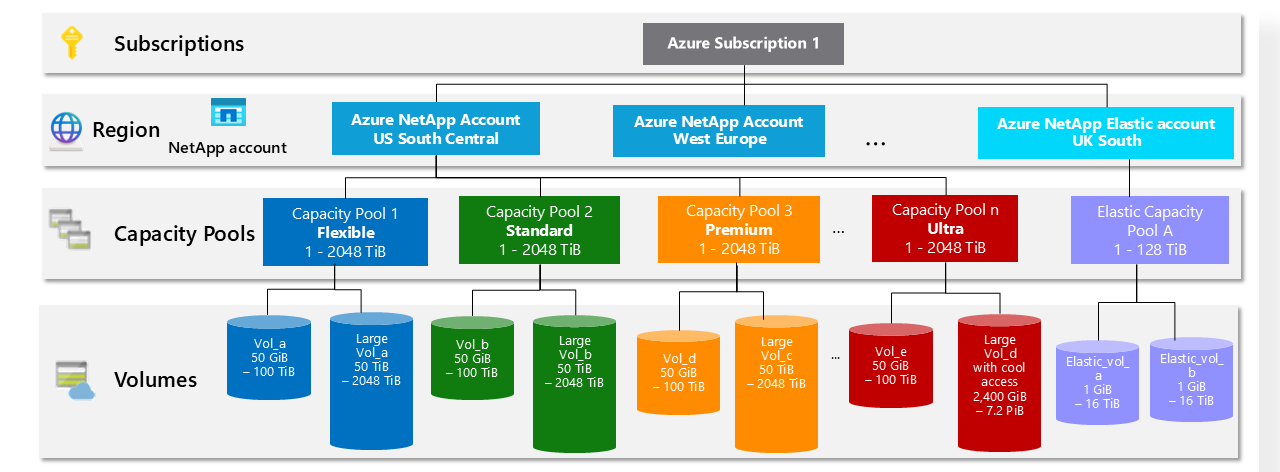
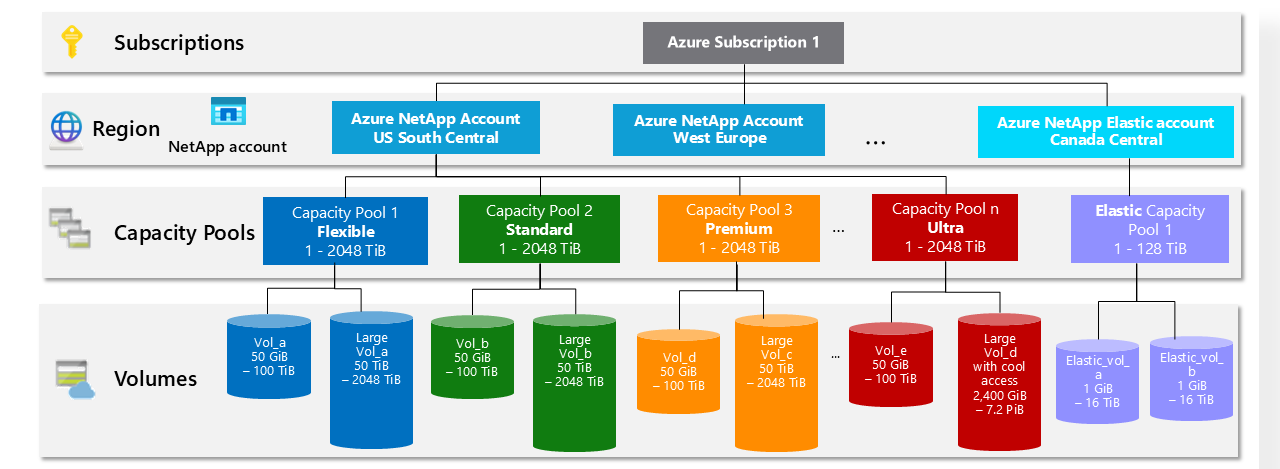
correct regions in diagram; formatting

diff --git a/articles/azure-netapp-files/azure-netapp-files-understand-storage-hierarchy.md b/articles/azure-netapp-files/azure-netapp-files-understand-storage-hierarchy.md
@@ -5,7 +5,7 @@ services: azure-netapp-files
 author: b-hchen
 ms.service: azure-netapp-files
 ms.topic: overview
-ms.date: 1/29/2026
+ms.date: 02/04/2026
 ms.author: anfdocs
 # Customer intent: "As a cloud architect, I want to understand the storage hierarchy of Azure NetApp Files, so that I can effectively set up and manage capacity pools and volumes to meet our storage needs."
 ---
@@ -36,7 +36,7 @@ Understanding how capacity pools work helps you select the right capacity pool t
 ### General rules of regular capacity pools
 
 - A capacity pool is measured by its provisioned capacity.   
-    For more information, see [QoS types](#qos_types).  
+  For more information, see [QoS types](#qos_types).  
 - The capacity is provisioned by the fixed SKUs that you purchased (for example, a 4-TiB capacity).
 - A capacity pool can have only one service level.  
 - Each capacity pool can belong to only one NetApp account. However, you can have multiple capacity pools within a NetApp account.  
@@ -44,7 +44,6 @@ Understanding how capacity pools work helps you select the right capacity pool t
   For example, in the [Conceptual diagram of storage hierarchy](#conceptual_diagram_of_storage_hierarchy), you can't move Capacity Pool 1 US East NetApp account to US West 2 NetApp account.  
 - You can't delete a capacity pool until you delete all volumes within the capacity pool. 
 - [Azure NetApp Files storage with cool access](cool-access-introduction.md) is supported in Flexible, Standard, Premium, and Ultra service-level capacity pools. For more information about service levels, including the Flexible service level, see [Service levels for Azure NetApp Files](azure-netapp-files-service-levels.md).
-
 
 ### General rules of Elastic capacity pools 
 
@@ -54,12 +53,10 @@ Understanding how capacity pools work helps you select the right capacity pool t
 - A capacity pool can have only one service level.
 - Each capacity pool can belong to only one NetApp Elastic account. You can have multiple capacity pools within a NetApp Elastic account.
 - You can't move a capacity pool across NetApp Elastic accounts.
-
   For example, in the storage hierarchy diagram, you can't move Capacity Pool 1 in the US East 2 NetApp Elastic account to the US West 2 NetApp Elastic account.
 - You can't delete a capacity pool until you delete all volumes within the capacity pool.
 - If you're using customer-managed keys, [ensure you've configured encryption before creating the capacity pool.](elastic-customer-managed-keys.md).
 - Elastic capacity pools enable you to create a failover preference order of availability zones. Some regions that support the Elastic service level only offer two availability zones. Query the region for availability zone with the REST API before creating the capacity pool:
-
 ```
 GET  https://management.azure.com/subscriptions/{subscriptionId}/providers/Microsoft.NetApp/locations/{location}/elasticRegionInfo?api-version=2025-09-01-preview.
 ```

diff --git a/articles/azure-netapp-files/elastic-zone-redundant-concept.md b/articles/azure-netapp-files/elastic-zone-redundant-concept.md
@@ -5,7 +5,7 @@ services: azure-netapp-files
 author: b-ahibbard
 ms.service: azure-netapp-files
 ms.topic: article
-ms.date: 01/30/2026
+ms.date: 02/04/2026
 ms.author: anfdocs
 ms.custom: references-regions 
 ---
@@ -104,6 +104,6 @@ For more detailed information, see [Azure NetApp Files REST API](/rest/api/netap
 ## Next steps 
 
 - [Storage hierarchy of Azure NetApp Files](azure-netapp-files-understand-storage-hierarchy.md)
-- [Create a NetApp account](azure-netapp-files-create-netapp-account.md)
-- [Set up a capacity pool](azure-netapp-files-set-up-capacity-pool.md)
+- [Create a NetApp Elastic account](elastic-account.md)
+- [Set up an Elastic capacity pool](elastic-capacity-pool-task.md)
 - [Azure NetApp Files resource limits](azure-netapp-files-resource-limits.md)

diff --git a/articles/azure-netapp-files/azure-netapp-files-service-levels.md b/articles/azure-netapp-files/azure-netapp-files-service-levels.md
@@ -134,8 +134,6 @@ Throughput is allocated per the following table:
 
 :::image type="content" source="./media/azure-netapp-files-service-levels/elastic-throughput.png" alt-text="Diagram of Elastic zone-redundant service level throughput." lightbox="./media/azure-netapp-files-service-levels/elastic-throughput.png":::
 
-
-
 ## Next steps
 
 - [Azure NetApp Files pricing page](https://azure.microsoft.com/pricing/details/storage/netapp/)
